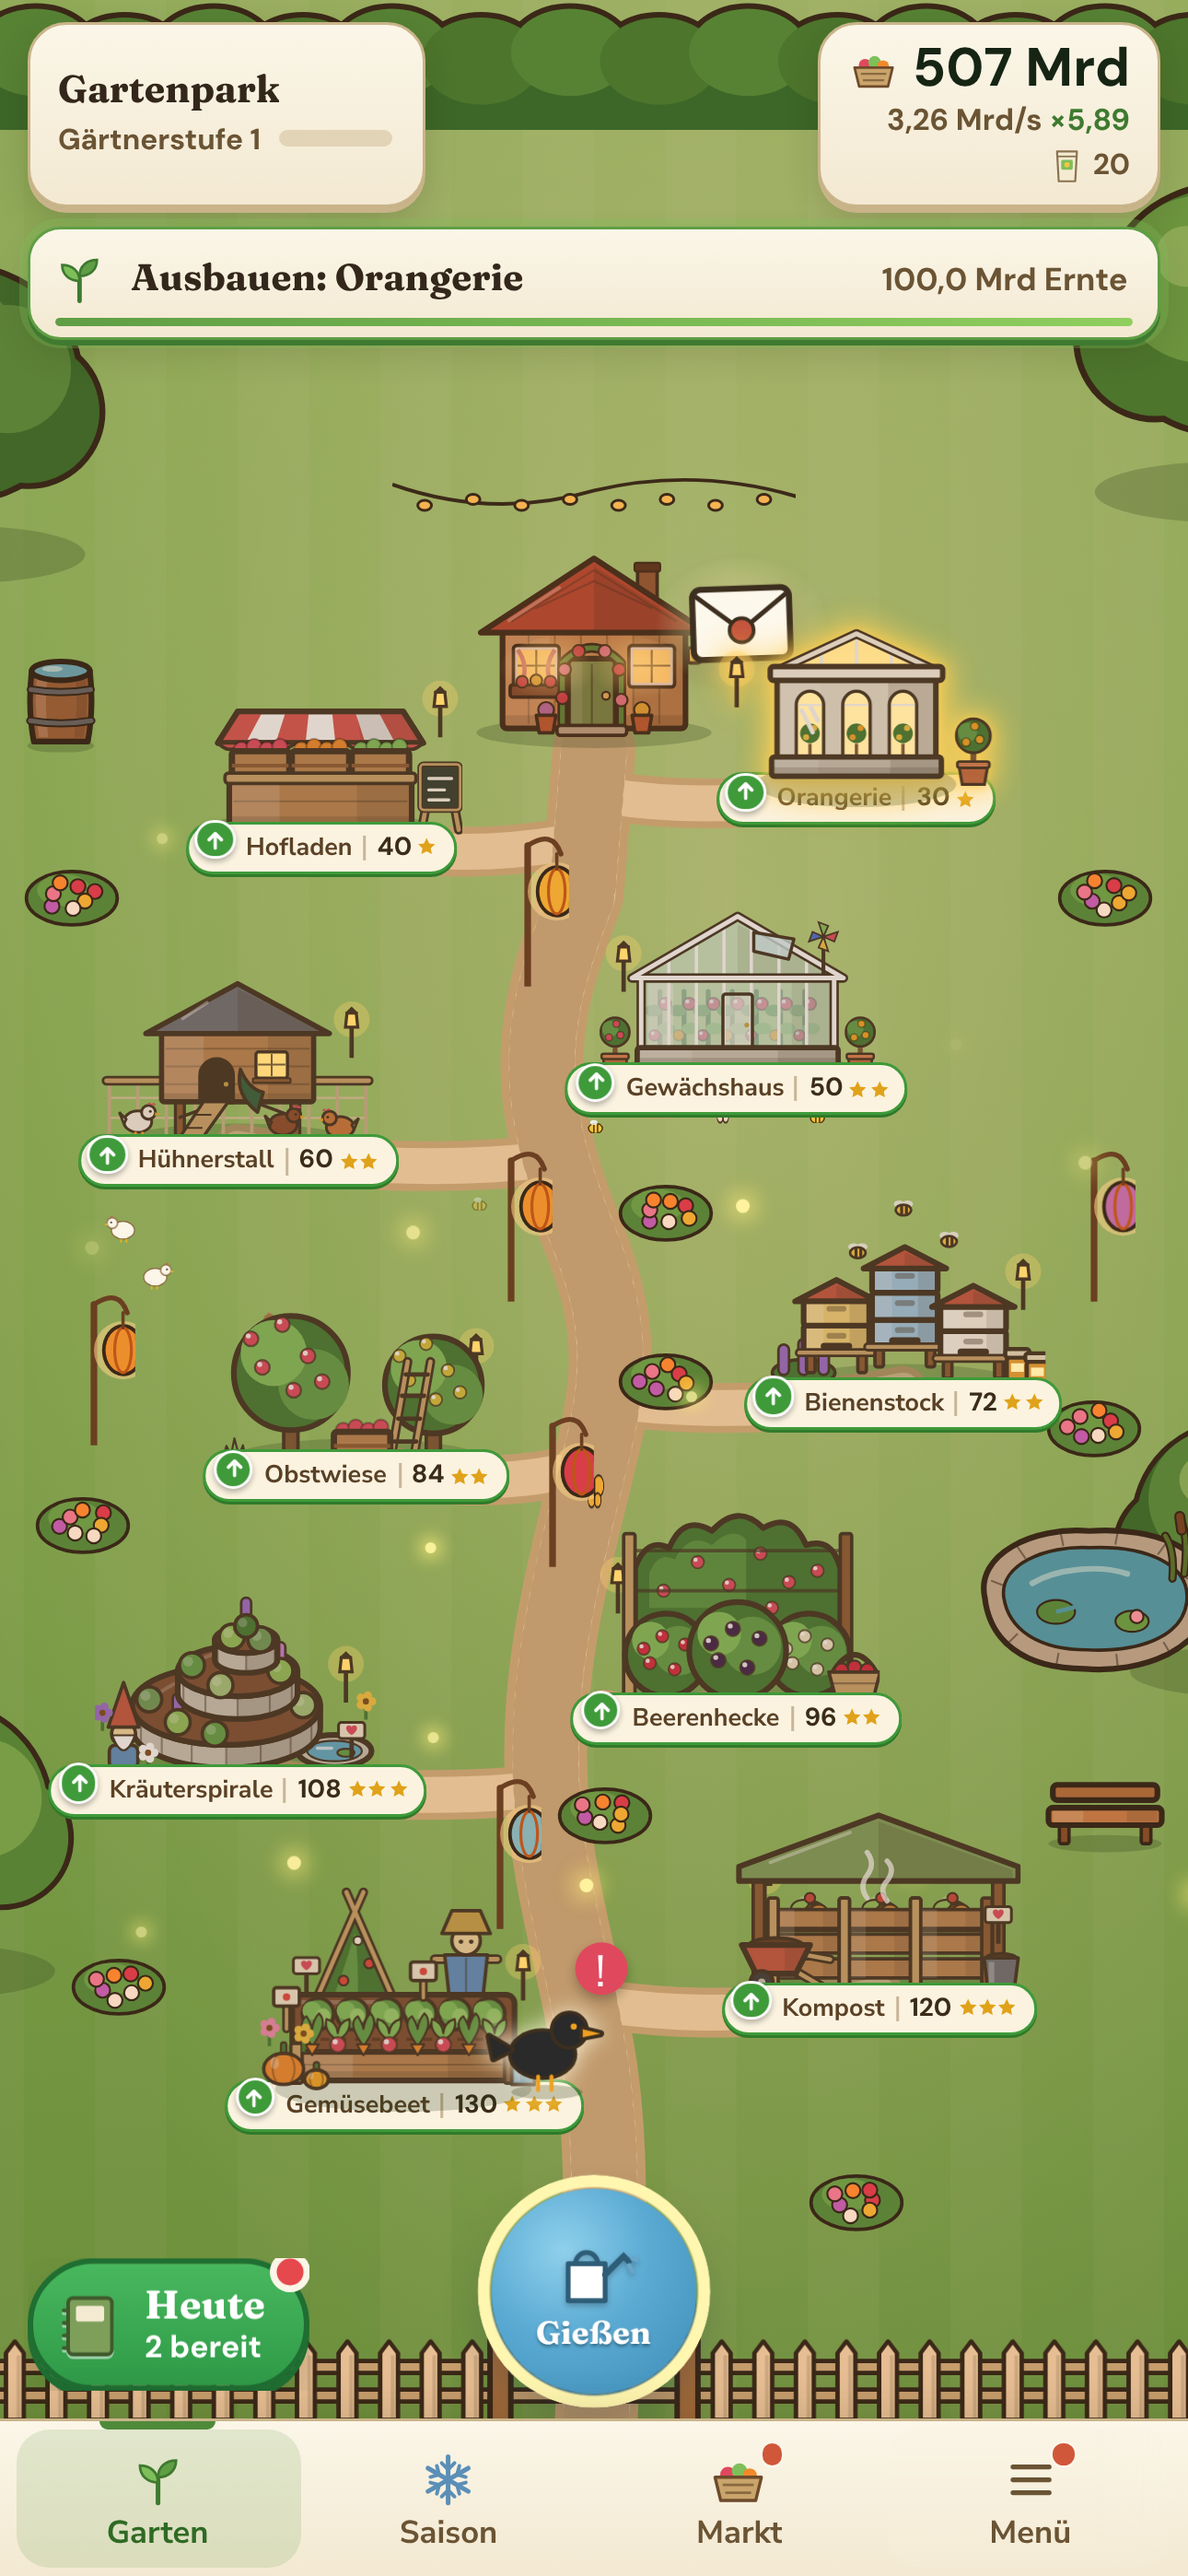
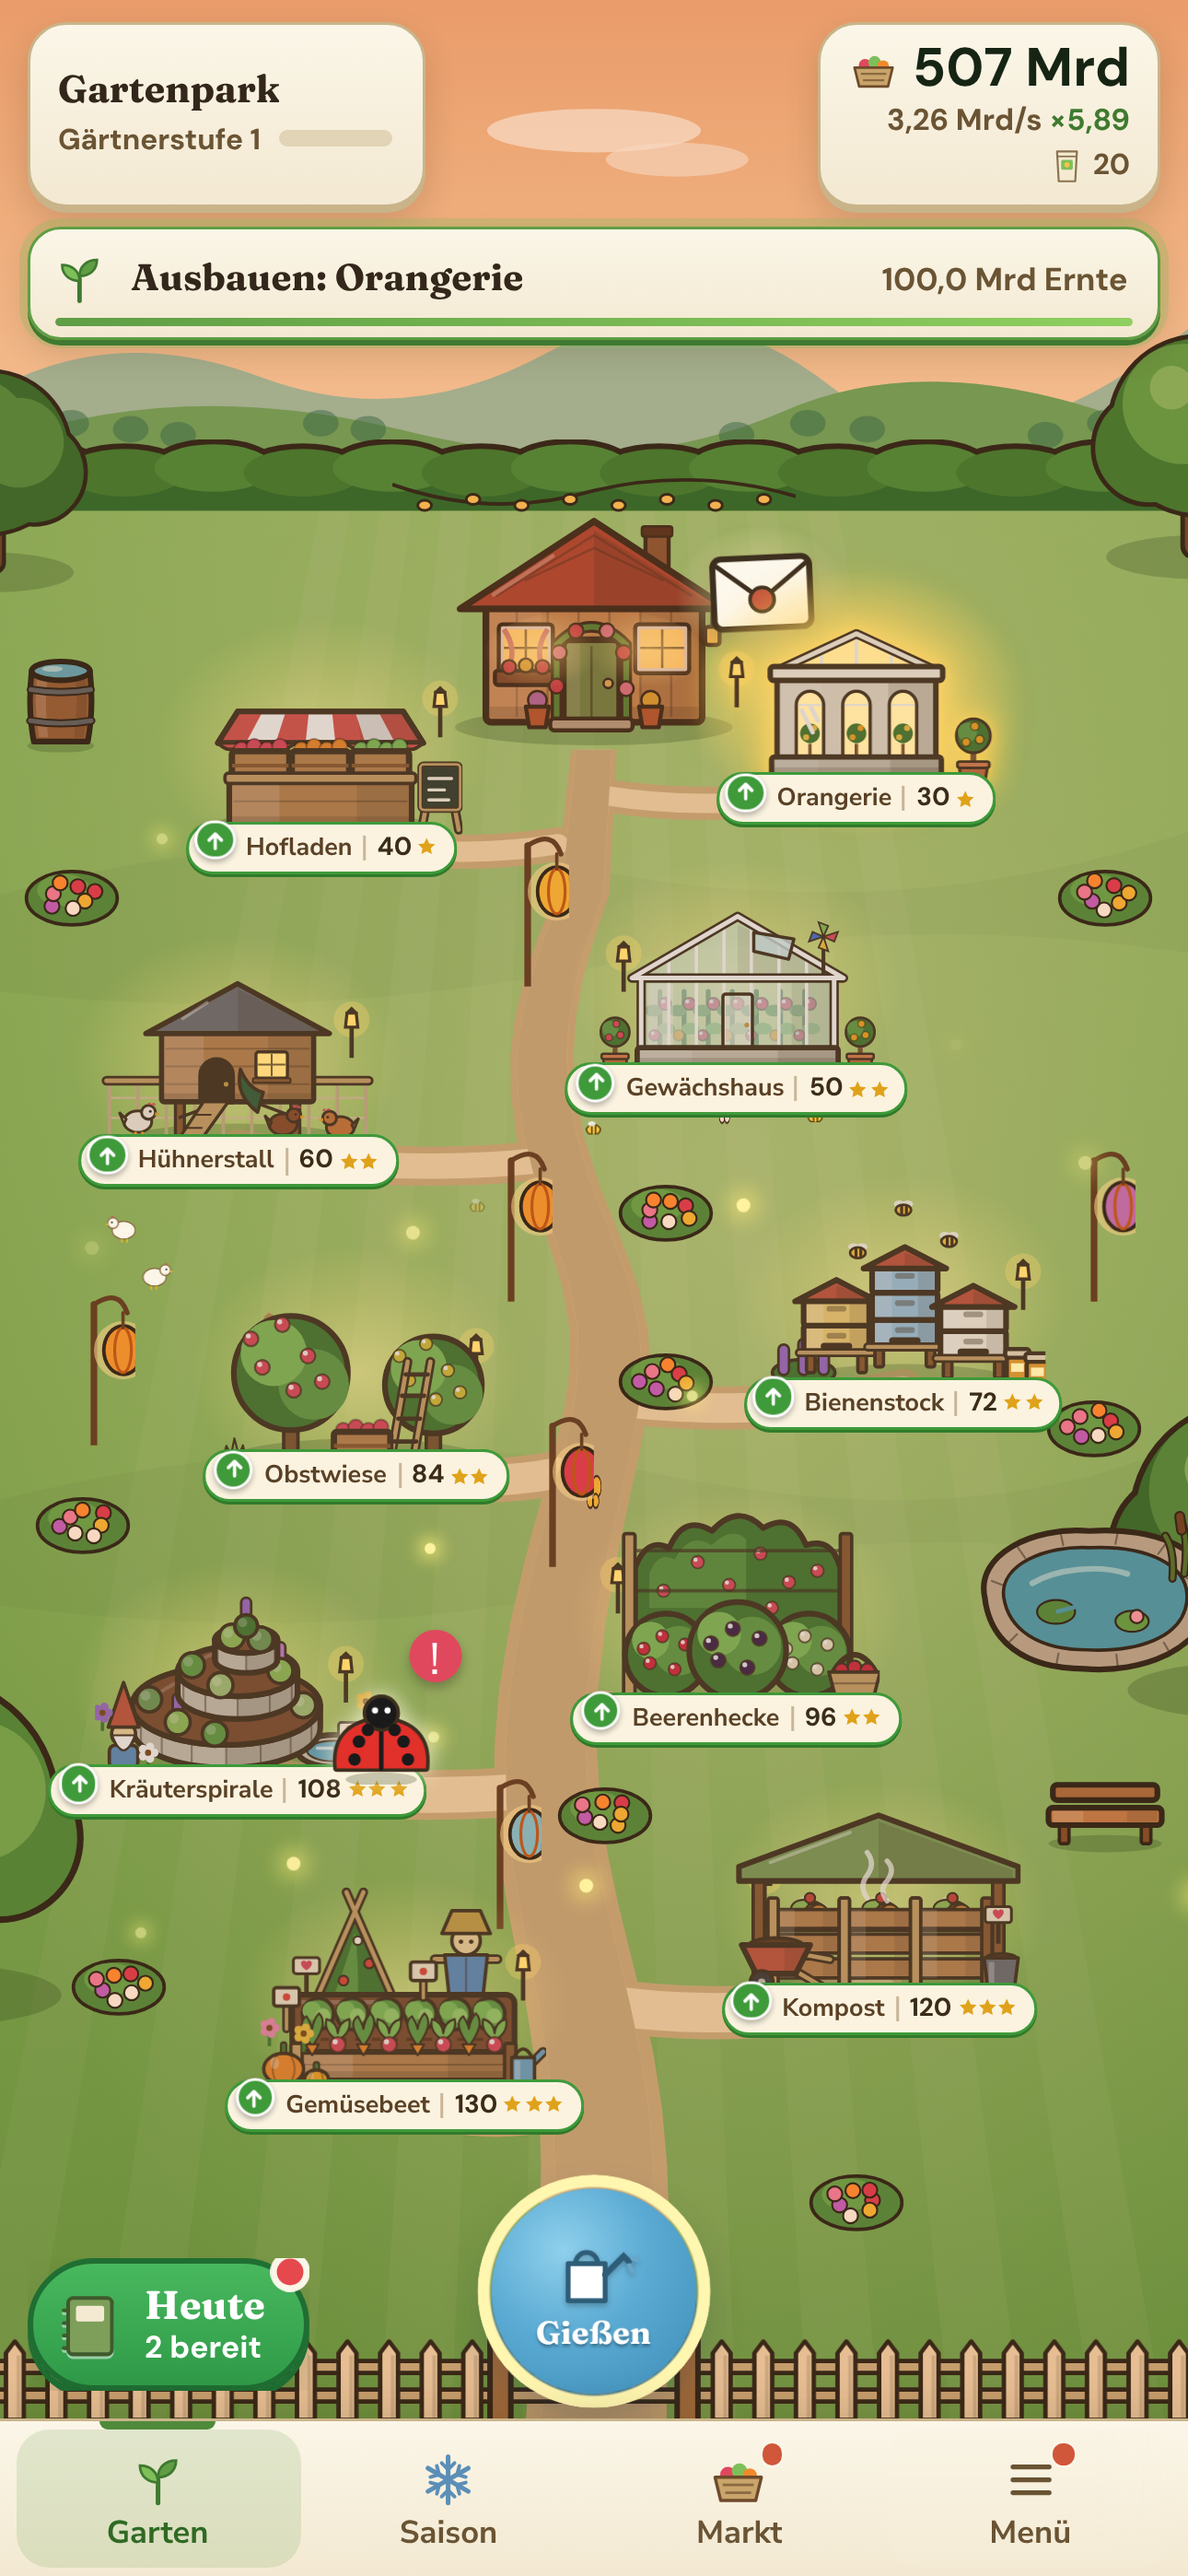
Horizont ausgebaut: Nachthimmel, Lichthof, ferne Wildnis kleiner
Himmel je Tageszeit mit Mond und Sternen, Hügel folgen der Jahreszeit.
Ausgebaute Bereiche leuchten abends und nachts; Schild und Plakette liegen
über der Grafik. Gesperrte Plätze, die noch nicht dran sind, sind kleiner.
Store-Bilder neu erzeugt.

Claude-Session: https://claude.ai/code/session_01LAeY2eLJgwXNQEEr1JGNmn

diff --git a/src/theme/MapBackdrop.tsx b/src/theme/MapBackdrop.tsx
@@ -610,6 +610,12 @@ export const MapBackdrop = memo(function MapBackdrop({ stage, ambient, skin, fes
   const light = useSvgId('gg-light')
   const sky = useSvgId('gg-sky')
   const clip = useSvgId('gg-pathclip')
+  // Himmel je Tageszeit; die Abend-/Nachttönung (.ambient-tint) legt sich darüber
+  const night = ambient.daypart === 'night'
+  const [skyTop, skyLow] =
+    night ? ['#5a6fb0', '#a9b8e0'] : ambient.daypart === 'evening' ? ['#f2b98c', '#fde6c4'] : ambient.daypart === 'morning' ? ['#c4e2f0', '#fdf0d6'] : ['#a9d8ef', '#e6f5ee']
+  const winter = ambient.season === 'winter'
+  const autumn = ambient.season === 'autumn'
   // Ein Platz, ein Stück: Gartenstil-Deko vor Fest-Deko vor Blumeninseln und Wildbüschen
   const skinSpots = (skin && SKIN_SPOTS[skin]) || []
   const taken = [...skinSpots, ...festSpots(fest, skin, skinSpots)]
@@ -628,8 +634,8 @@ export const MapBackdrop = memo(function MapBackdrop({ stage, ambient, skin, fes
             <stop offset="100%" style={{ stopColor: 'var(--g-grass-near)' }} />
           </linearGradient>
           <linearGradient id={sky} x1="0" y1="0" x2="0" y2="1">
-            <stop offset="0%" stopColor="#a9d8ef" />
-            <stop offset="100%" stopColor="#e6f5ee" />
+            <stop offset="0%" stopColor={skyTop} />
+            <stop offset="100%" stopColor={skyLow} />
           </linearGradient>
           <clipPath id={clip}>
             <path d={taperedPath()} />
@@ -641,14 +647,28 @@ export const MapBackdrop = memo(function MapBackdrop({ stage, ambient, skin, fes
         </defs>
         {/* Kulisse hinter dem Garten: Himmel, ferne Hügel, nahe Hügel mit Obstbäumen */}
         <rect width="100" height={HORIZON + 1} fill={`url(#${sky})`} />
-        <ellipse cx="50" cy="5.4" rx="9" ry="0.9" fill="#ffffff" opacity="0.75" />
-        <ellipse cx="57" cy="6.6" rx="6" ry="0.7" fill="#ffffff" opacity="0.6" />
-        <ellipse cx="84" cy="17.4" rx="7" ry="0.6" fill="#ffffff" opacity="0.55" />
-        <path d="M0 16 Q10 13.4 22 15.6 T46 14.6 T70 16 T100 13.6 V21 H0 Z" fill="#a9cdb9" />
+        {night ? (
+          <g>
+            {/* Mond und Sterne: in der Lücke der Kopfleiste und im Streifen über der Hecke */}
+            {[[38, 3.2], [44, 6.4], [62, 2.6], [66, 6.8], [49, 2], [74, 15], [82, 14.2], [90, 15.6], [96, 13.4], [70, 16.4], [6, 15.4], [14, 16.2]].map(([x, y], i) => (
+              <ellipse key={i} cx={x} cy={y} rx={i % 3 ? 0.36 : 0.5} ry={i % 3 ? 0.17 : 0.24} fill="#ffffff" opacity={i % 2 ? 0.9 : 0.7} className={i % 4 === 0 ? 'fest-twinkle' : undefined} />
+            ))}
+            <ellipse cx="55" cy="4.8" rx="2.5" ry="1.16" fill="#fff6d8" />
+            <ellipse cx="56" cy="4.4" rx="2.1" ry="0.98" fill={skyTop} />
+          </g>
+        ) : (
+          <g>
+            <ellipse cx="50" cy="5.4" rx="9" ry="0.9" fill="#ffffff" opacity="0.75" />
+            <ellipse cx="57" cy="6.6" rx="6" ry="0.7" fill="#ffffff" opacity="0.6" />
+            <ellipse cx="84" cy="17.4" rx="7" ry="0.6" fill="#ffffff" opacity="0.55" />
+          </g>
+        )}
+        {/* ferne Hügel (im Winter verschneit), nahe Hügel mit Obstbäumen */}
+        <path d="M0 16 Q10 13.4 22 15.6 T46 14.6 T70 16 T100 13.6 V21 H0 Z" fill={winter ? '#eef3f6' : '#a9cdb9'} />
         <path d="M0 18.2 Q16 15.6 34 17.8 T66 17 T100 18.4 V21 H0 Z" fill="var(--g-grass-far)" />
-        <path d="M0 18.2 Q16 15.6 34 17.8 T66 17 T100 18.4 V21 H0 Z" fill="#3f7a5a" opacity="0.28" />
+        <path d="M0 18.2 Q16 15.6 34 17.8 T66 17 T100 18.4 V21 H0 Z" fill={winter ? '#ffffff' : '#3f7a5a'} opacity={winter ? 0.5 : 0.28} />
         {[6, 11, 15, 27, 31, 62, 68, 73, 88, 93].map((x, i) => (
-          <ellipse key={x} cx={x} cy={17.5 + (i % 3) * 0.25} rx="1.5" ry="0.55" fill="#3f7a5a" opacity="0.5" />
+          <ellipse key={x} cx={x} cy={17.5 + (i % 3) * 0.25} rx="1.5" ry="0.55" fill={winter ? '#8fa39a' : autumn ? (i % 2 ? '#c9762c' : '#b89a3a') : '#3f7a5a'} opacity={autumn ? 0.75 : 0.5} />
         ))}
         <rect y={HORIZON} width="100" height={100 - HORIZON} fill={`url(#${grass})`} />
         {/* Mähstreifen laufen auf den Fluchtpunkt hinter der Laube zu */}

diff --git a/src/theme/garden.css b/src/theme/garden.css
@@ -149,6 +149,7 @@
 }
 
 .plot-visual {
+  position: relative;
   display: block;
   width: 100%;
   transform-origin: 50% 85%;
@@ -163,6 +164,31 @@
   display: block;
   width: 100%;
   height: auto;
+}
+
+/* Wildnis, die noch nicht dran ist: kleiner und blasser */
+.garden-plot.wild-far .plot-visual {
+  transform: scale(0.74);
+  opacity: 0.88;
+}
+
+/* Lichthof: ausgebaute Bereiche leuchten abends und nachts warm (wie die Fenster) */
+.garden-stage[data-daypart='evening'] .garden-plot.planted .plot-visual::before,
+.garden-stage[data-daypart='night'] .garden-plot.planted .plot-visual::before {
+  content: '';
+  position: absolute;
+  left: -9%;
+  right: -9%;
+  top: 2%;
+  bottom: -6%;
+  z-index: -1;
+  border-radius: 50%;
+  background: radial-gradient(closest-side, rgba(255, 226, 150, 0.9), rgba(255, 220, 130, 0.42) 55%, rgba(255, 220, 130, 0));
+  pointer-events: none;
+}
+
+.garden-stage[data-daypart='evening'] .garden-plot.planted .plot-visual::before {
+  opacity: 0.55;
 }
 
 .garden-plot.selected .plot-visual {
@@ -181,7 +207,16 @@
   --sign-zone: calc(var(--u) * 3.36);
 }
 
+/* Plakette ebenfalls über der Grafik */
+.plot-badge {
+  position: relative;
+  z-index: 1;
+}
+
 .plot-sign {
+  /* über der Grafik (.plot-visual ist für den Lichthof positioniert) */
+  position: relative;
+  z-index: 1;
   display: flex;
   flex-direction: column;
   align-items: center;

diff --git a/src/components/map/GardenPlot.tsx b/src/components/map/GardenPlot.tsx
@@ -61,6 +61,8 @@ export function GardenPlot({ def, game, selectedHere, animated, totalMult, hl, n
     (selectedHere ? ' selected' : '') +
     (animated ? ' anim' : '') +
     (!unlocked ? ' wild' : ready ? ' ready' : ' planted') +
+    // Ferne Wildnis: kleiner gezeichnet, bis sie als Nächstes dran ist — Gebautes wirkt daneben größer
+    (!unlocked && !nextWild && !selectedHere ? ' wild-far' : '') +
     (producing ? ' producing' : '') +
     (canBuy ? ' can-buy' : '') +
     (isBestBuy ? ' best-buy' : '') +

diff --git a/docs/grafik/probestueck-2026-11.md b/docs/grafik/probestueck-2026-11.md
@@ -138,16 +138,23 @@ Der freie, noch nicht angelegte Platz bekommt die Bereichs-ID (`ChapterArtEntry.
   Test `src/test/mapSpots.test.ts`.
 - **Pfützen:** in der Bodenebene und auf freien Stellen (siehe oben).
 
-## Probestück Horizont (2026-11-14) – **nur auf dem Branch, noch nicht entschieden**
+## Horizont und Tiefe (2026-11-14)
 Anlass: Vergleich mit Lichtwarte (Tiefe durch Horizont, Wahrzeichen am Fluchtpunkt, Weg mit
-Perspektive). Bilder vorher/nachher: `probe-horizont-tag.png`, `-nacht.png`, `-frueh.png`.
-- Kulisse über dem Garten (`MapBackdrop.tsx`, `HORIZON` = 20 %): Himmel, zwei Hügelketten, die
-  Hecke als hintere Gartengrenze am Horizont statt am oberen Bildrand.
-- Hauptweg als Fläche, die zur Laube hin schmaler wird (`taperedPath`); Stichwege hinten dünner.
-- Laube größer (22 → 26 u) als Fluchtpunkt; Bäume hinten kleiner, vorn größer; Mähstreifen laufen
-  auf den Fluchtpunkt zu; zwei sanfte Bodenwellen.
-- Offen: Nachthimmel (Mond, Sterne), Jahreszeiten der Hügel, Lichthof für ausgebaute Bereiche,
-  kleinere gesperrte Plätze. Plätze der Bereiche, Deko und Pfützen sind unverändert.
+Perspektive, Licht als Ebene). Bilder: `horizont-ausbau.png` (früh, Tag, Nacht, Winter),
+vorher/nachher `probe-horizont-*.png`.
+- **Kulisse** (`MapBackdrop.tsx`, `HORIZON` = 20 %): Himmel je Tageszeit (morgens, tags, abends,
+  nachts mit Mond und Sternen), ferne Hügel (im Winter verschneit), nahe Hügel mit Obstbäumen
+  (im Herbst bunt); die Hecke ist die hintere Gartengrenze am Horizont.
+- **Weg mit Perspektive:** Hauptweg als Fläche, die zur Laube hin schmaler wird (`taperedPath`);
+  Stichwege hinten dünner; Mähstreifen laufen auf den Fluchtpunkt zu; zwei Bodenwellen.
+- **Laube als Fluchtpunkt:** größer (22 → 26 u); Bäume hinten kleiner, vorn größer.
+- **Lichthof:** ausgebaute Bereiche leuchten abends und nachts warm (`garden.css`,
+  `.plot-visual::before`). Schild und Plakette liegen dafür ausdrücklich über der Grafik.
+- **Ferne Wildnis kleiner:** gesperrte Plätze, die noch nicht als Nächstes dran sind, sind auf 74 %
+  verkleinert (`.wild-far`). Das Schild zeigte schon vorher nur der nächste Platz.
+- Plätze der Bereiche, Deko und Pfützen sind unverändert; Überlagerungen nachgemessen: 0.
+- Grenze: Die Kopfleiste verdeckt den größten Teil des Himmels. Mehr Horizont ginge nur, wenn die
+  Bereiche nach unten rücken.
 
 ## Als Nächstes
 1. Gemeinsame Kapitel-Teile (`HandParts.tsx`, `art/chapters/partsA…I.tsx`: Dach, Figur, Glashaus,
